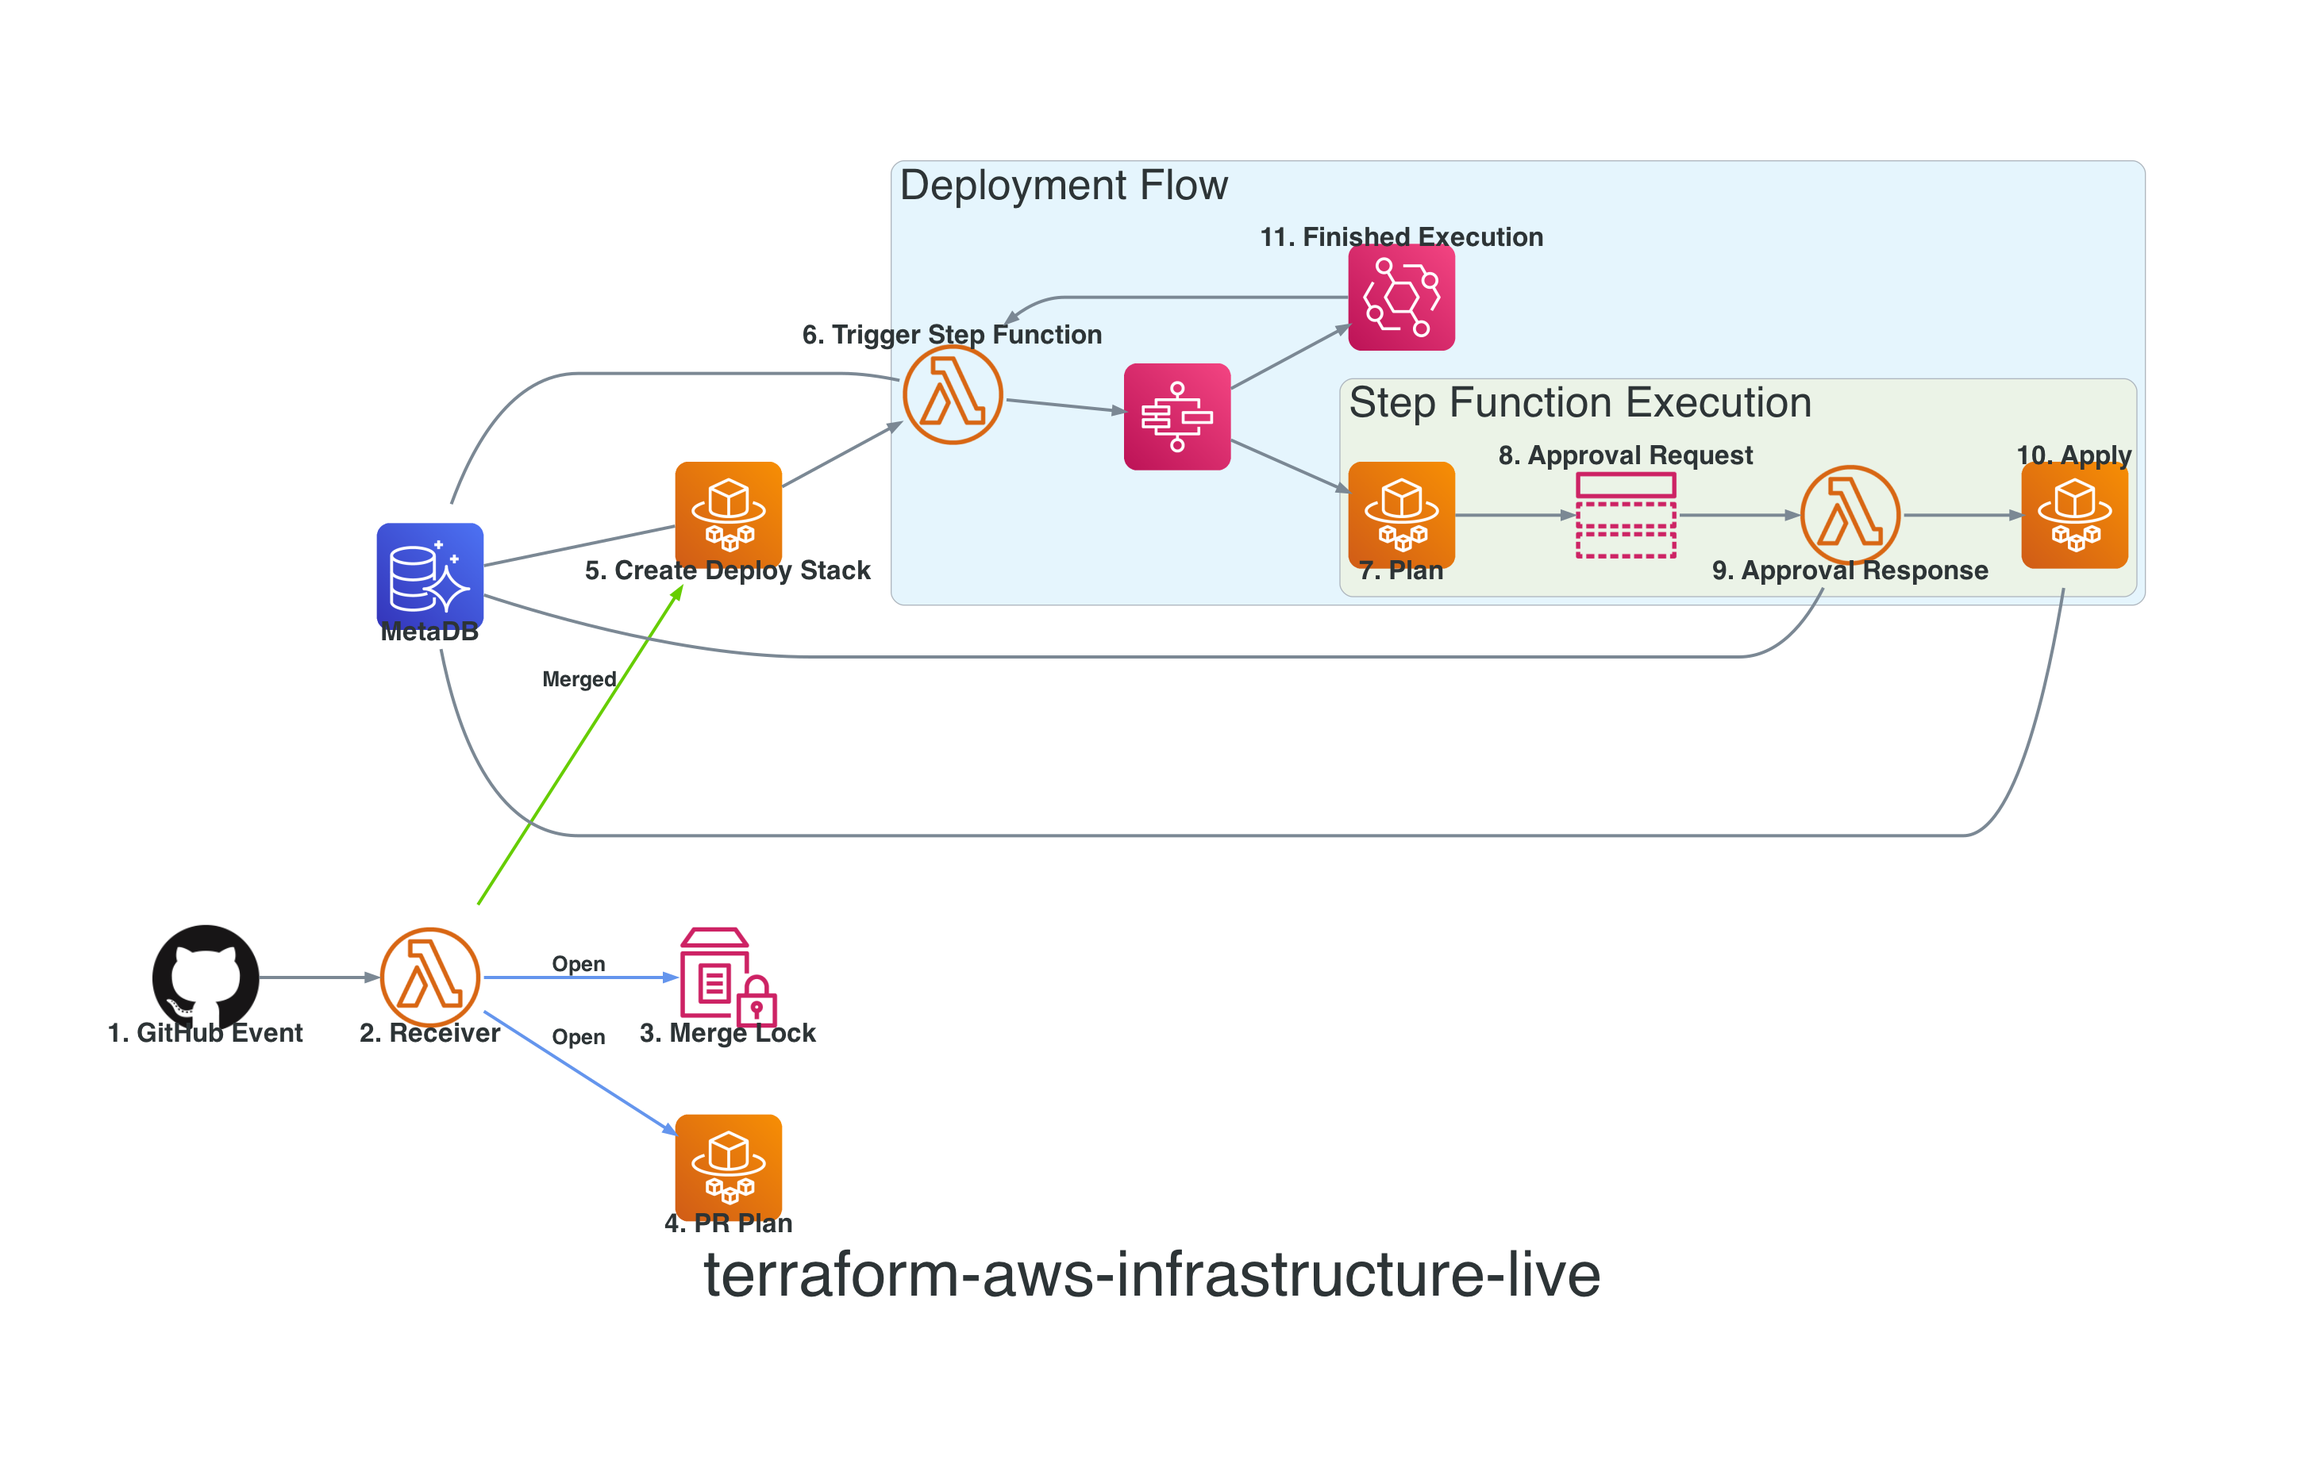
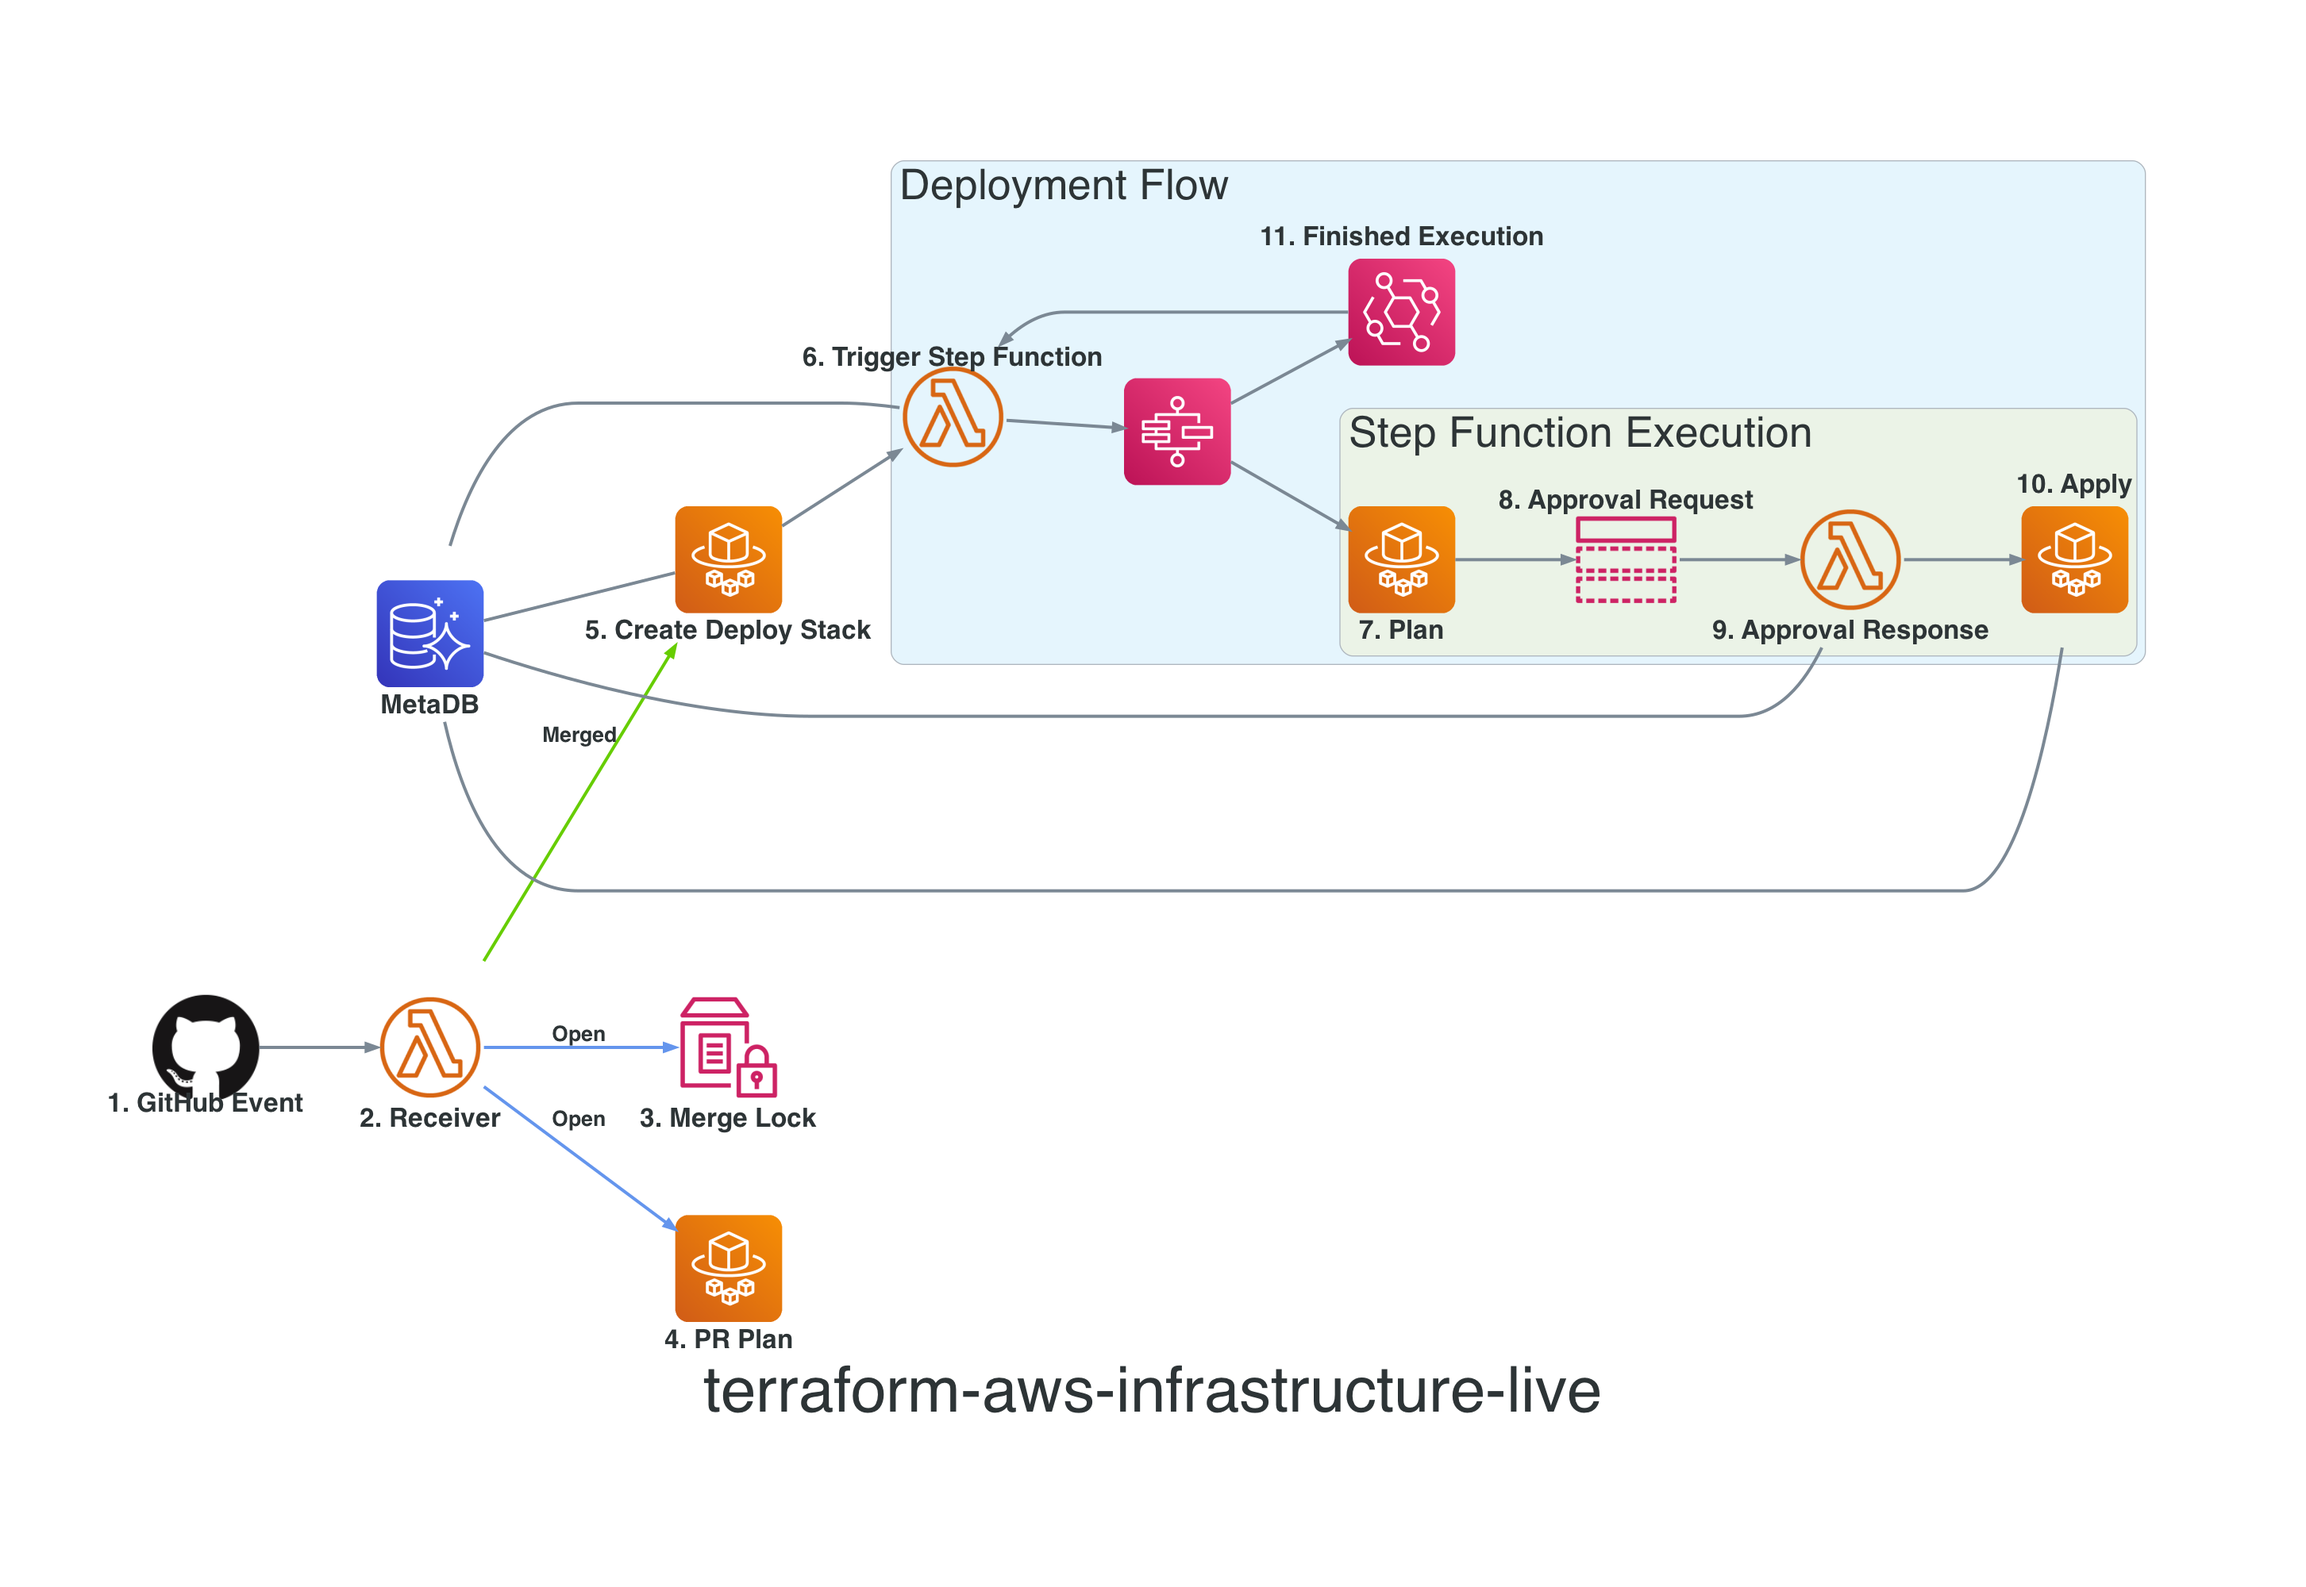
fix DAC node label padding and output config

diff --git a/diagram/dac.py b/diagram/dac.py
@@ -30,9 +30,12 @@ with Diagram(
     graph_attr=graph_attr,
     node_attr=node_attr,
     edge_attr=edge_attr,
+    filename="./diagram/terraform-aws-infrastructure-live",
+    outformat="png",
+    show=False,
 ):
-    receiver = LambdaFunction("2. Receiver")
-    create_deploy_stack = Fargate("5. Create Deploy Stack")
+    receiver = LambdaFunction("\n2. Receiver")
+    create_deploy_stack = Fargate("\n5. Create Deploy Stack")
 
     receiver
     (
@@ -46,8 +49,8 @@ with Diagram(
             fontname="Times bold",
         )
         >> [
-            SystemsManagerParameterStore("3. Merge Lock"),
-            Fargate("4. PR Plan"),
+            SystemsManagerParameterStore("\n3. Merge Lock"),
+            Fargate("\n4. PR Plan"),
         ]
     )
     (
@@ -64,21 +67,21 @@ with Diagram(
 
     with Cluster("Deployment Flow", graph_attr=cluster_attr):
         trigger_sf = LambdaFunction("6. Trigger Step Function", labelloc="t")
-        eventbridge = Eventbridge("11. Finished Execution", labelloc="t")
+        eventbridge = Eventbridge("11. Finished Execution\n", labelloc="t")
         sf = StepFunctions()
         create_deploy_stack >> trigger_sf >> sf
 
         with Cluster("Step Function Execution", graph_attr=cluster_attr):
-            plan = Fargate("7. Plan")
+            plan = Fargate("\n7. Plan")
             request = SimpleNotificationServiceSnsTopic(
                 "8. Approval Request", labelloc="t"
             )
-            response = LambdaFunction("9. Approval Response")
-            apply = Fargate("10. Apply", labelloc="t")
+            response = LambdaFunction("\n9. Approval Response")
+            apply = Fargate("10. Apply\n", labelloc="t")
 
             sf >> [plan, eventbridge]
             eventbridge >> trigger_sf
 
             plan >> request >> response >> apply
 
-    Aurora("MetaDB") - [create_deploy_stack, trigger_sf, response, apply]
+    Aurora("\nMetaDB") - [create_deploy_stack, trigger_sf, response, apply]

diff --git a/README.md b/README.md
@@ -72,7 +72,7 @@ if `dev/rds` and `dev/ec2` have changes, only `dev/rds` and `dev/ec2` will be co
 
 After all directories and their associated dependencies are gathered, they are put into separate database records that a downstream Lambda Function will then use. The Lambda Function will determine the order in which the directories are passed into the Step Function deployment flow. This entire process includes no human intervention and removes the need for users to define the deployment ordering all together. The actual code that runs this process is defined [here](./docker/src/create_deploy_stack/create_deploy_stack.py).
  
- 
+
 ## Design
  
 ![Diagram](./diagram/terraform-aws-infrastructure-live.png)
